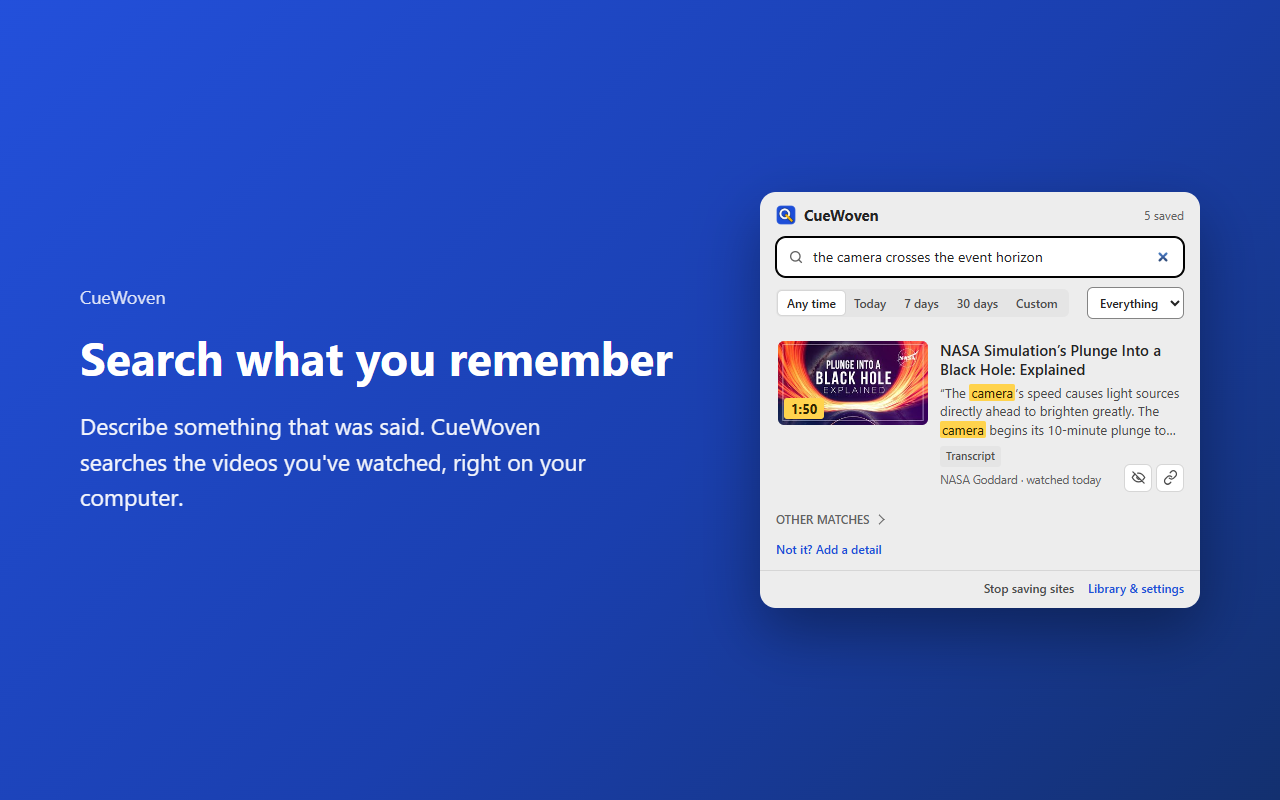
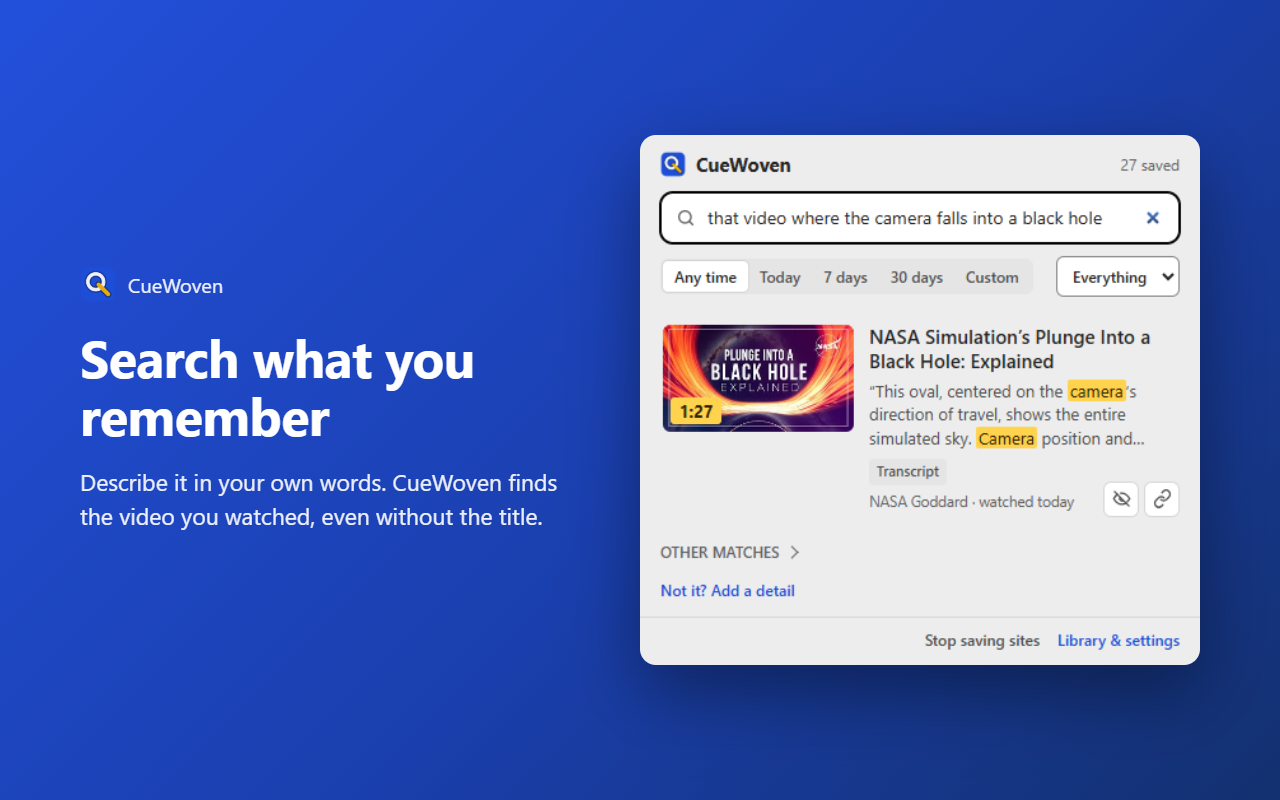
Store screenshots: larger popup, cleaner date example, NASA-only library

Changed region(s): [[0.0625, 0.1562, 0.9375, 0.875], [0.0625, 0.3438, 0.1875, 0.375], [0.6562, 0.6875, 0.6875, 0.7188]]

diff --git a/docs/STORE-LISTING.md b/docs/STORE-LISTING.md
@@ -97,13 +97,13 @@ Leave all others unchecked. Note in any free-text field that this data is stored
 |---|---|---|
 | store/screenshot-1-search.png | 1280×800 | Search by something that was said |
 | store/screenshot-2-moment.png | 1280×800 | Jump to the matching moment |
-| store/screenshot-3-dates.png | 1280×800 | Typed dates narrow results |
+| store/screenshot-3-dates.png | 1280×800 | Say when you saw it ("today") |
 | store/screenshot-4-library.png | 1280×800 | Library & settings |
 | store/promo-small-440x280.png | 440×280 | Chrome small promo tile (required) |
 | store/logo-300.png | 300×300 | Edge extension logo (Microsoft's recommended size) |
 | icons/icon128.png | 128×128 | Chrome store icon |
 
-Screenshots show real NASA videos (public domain) captured by CueWoven 3.3.53 from live YouTube in a normally launched Edge. Recapture them if the UI changes. Automated (Playwright-launched) browsers do not work for this: YouTube does not load videos or captions for them, so CueWoven saves titles only.
+Screenshots show real NASA videos (public domain) captured by CueWoven 3.3.53 from live YouTube in a normally launched Edge, shown at about 1.3x so text stays readable in the store's smaller preview. Recapture them if the UI changes. Automated (Playwright-launched) browsers do not work for this: YouTube does not load videos or captions for them, so CueWoven saves titles only.
 
 ## Submission gates
 
